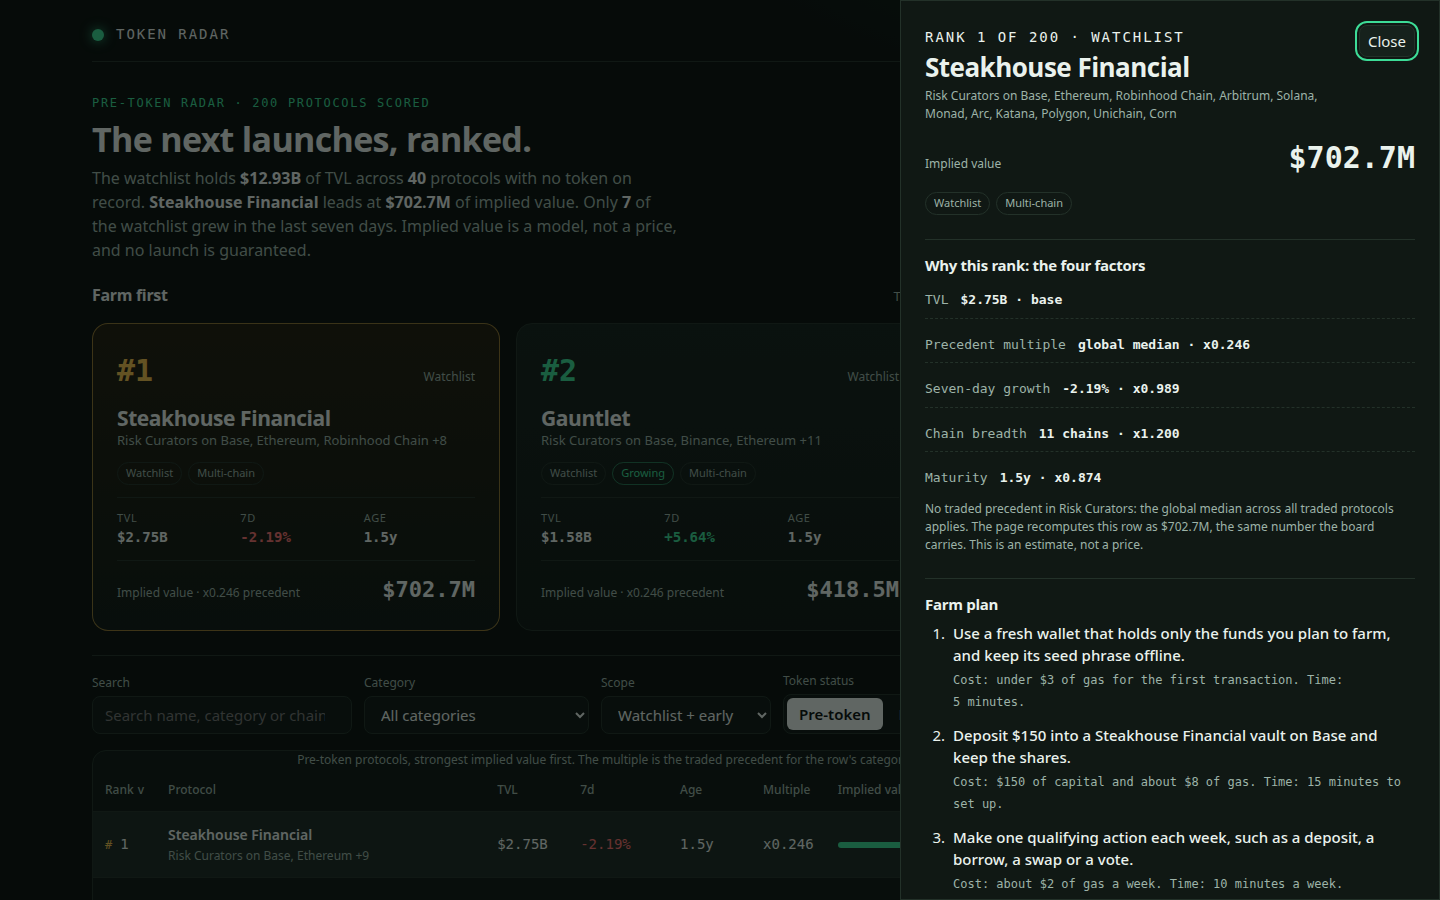
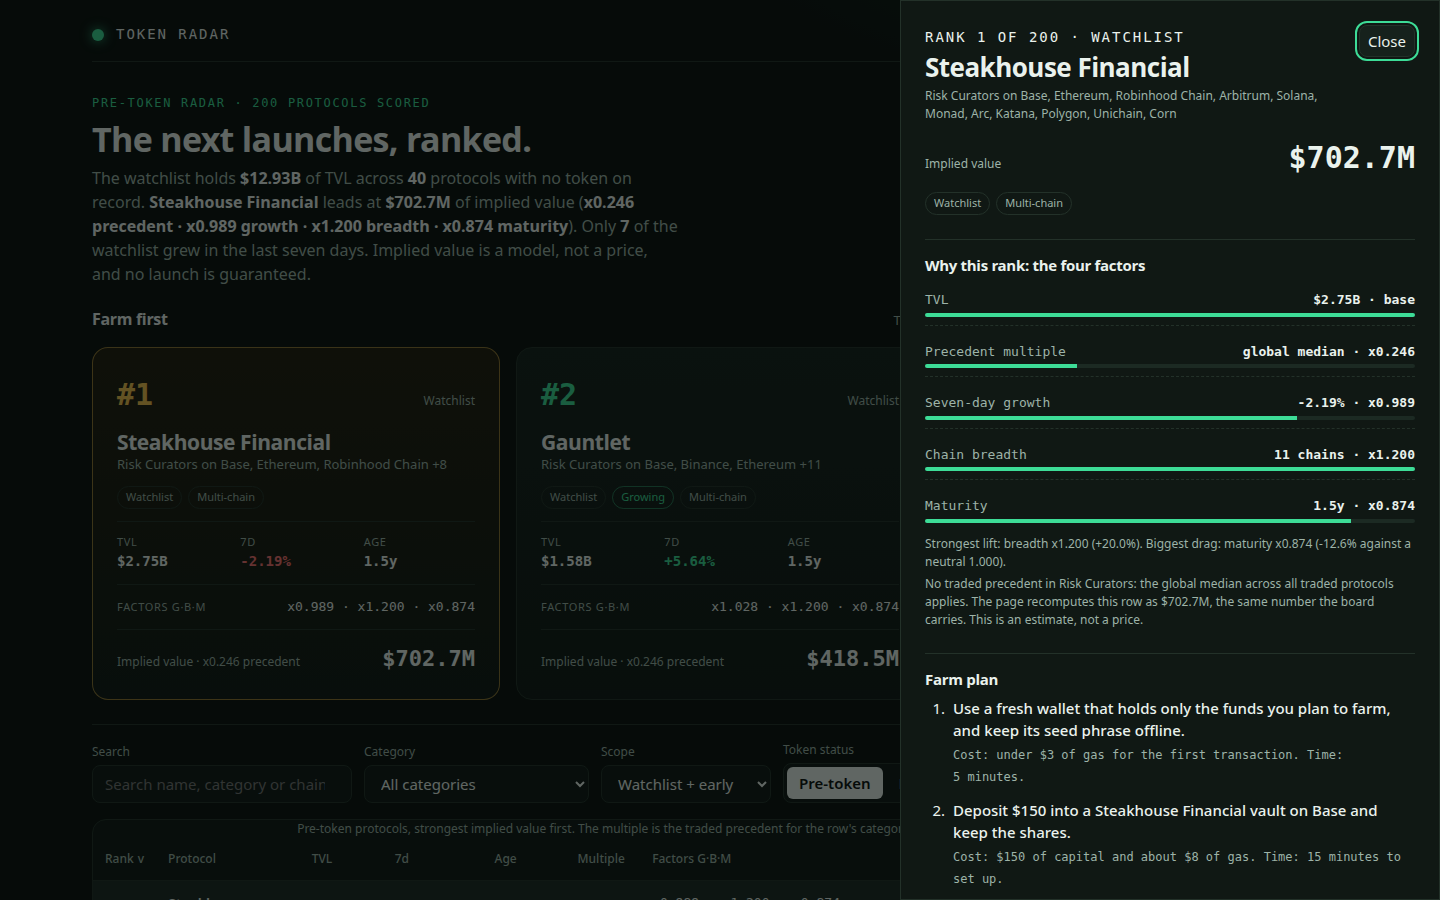
Polish 1: factor strips, factor bars, drag/lift summary

diff --git a/dashboard/app.js b/dashboard/app.js
@@ -193,6 +193,7 @@
     var watchTvl = watch.reduce(function (n, r) { return n + r.tvl_usd; }, 0);
     var top = DATA.rows[0];
     var growing = watch.filter(function (r) { return r.change_7d !== null && r.change_7d >= 2; }).length;
+    var topFactors = fmtMult(top.category_multiple) + ' precedent · ' + fmtMult(growthMultOf(top, DATA.model)) + ' growth · ' + fmtMult(breadthMultOf(top, DATA.model)) + ' breadth · ' + fmtMult(maturityMultOf(top, DATA.model)) + ' maturity';
     return el('section', { class: 'hero' },
       el('div', null,
         el('div', { class: 'eyebrow', text: 'Pre-token radar · ' + DATA.rows.length + ' protocols scored' }),
@@ -200,7 +201,7 @@
         el('p', null,
           'The watchlist holds ', el('b', { text: fmtUsd(watchTvl) }), ' of TVL across ', el('b', { text: String(watch.length) }),
           ' protocols with no token on record. ', el('b', { text: top.name }), ' leads at ', el('b', { text: fmtUsd(top.implied_value_usd) }),
-          ' of implied value. Only ', el('b', { text: String(growing) }), ' of the watchlist grew in the last seven days. Implied value is a model, not a price, and no launch is guaranteed.'
+          ' of implied value (', el('b', { text: topFactors }), '). Only ', el('b', { text: String(growing) }), ' of the watchlist grew in the last seven days. Implied value is a model, not a price, and no launch is guaranteed.'
         )
       ),
       el('div', { class: 'stats' },
@@ -233,6 +234,10 @@
           el('div', null, el('span', { text: 'TVL' }), el('b', { text: fmtUsd(r.tvl_usd) })),
           el('div', null, el('span', { text: '7d' }), el('b', { class: r.change_7d !== null && r.change_7d >= 0 ? 'pos' : 'neg', text: fmtPct(r.change_7d) })),
           el('div', null, el('span', { text: 'Age' }), el('b', { text: fmtAge(r.age_days) }))
+        ),
+        el('div', { class: 'card-factors' },
+          el('span', { text: 'Factors G·B·M' }),
+          el('span', { class: 'num', text: fmtMult(growthMultOf(r, DATA.model)) + ' · ' + fmtMult(breadthMultOf(r, DATA.model)) + ' · ' + fmtMult(maturityMultOf(r, DATA.model)) })
         ),
         el('div', { class: 'card-implied' },
           el('span', { text: 'Implied value · ' + fmtMult(r.category_multiple) + ' precedent' }),
@@ -317,6 +322,7 @@
         el('td', { class: 'num ' + growthClass, text: growth }),
         el('td', { class: 'num', text: fmtAge(r.age_days) }),
         el('td', { class: 'num', text: fmtMult(r.category_multiple) }),
+        el('td', { class: 'num factors', text: fmtMult(growthMultOf(r, DATA.model)) + ' · ' + fmtMult(breadthMultOf(r, DATA.model)) + ' · ' + fmtMult(maturityMultOf(r, DATA.model)) }),
         el('td', null, el('div', { class: 'implied' },
           el('div', { class: 'bar', 'aria-hidden': 'true' }, el('i', { style: 'width:' + Math.max(3, Math.round((r.implied_value_usd / max) * 100)) + '%' })),
           el('span', { class: 'num', text: fmtUsd(r.implied_value_usd) })
@@ -337,6 +343,7 @@
             sortHeader('growth', '7d'),
             sortHeader('age', 'Age'),
             sortHeader('multiple', 'Multiple'),
+            el('th', { scope: 'col', text: 'Factors G·B·M' }),
             sortHeader('implied', 'Implied value'),
             el('th', { scope: 'col', text: 'Signals' }),
             el('th', { scope: 'col', text: 'Token' })
@@ -421,8 +428,8 @@
   dialog.addEventListener('close', function () { state.selected = null; writeHash(); });
 
   function factorRow(label, input, right, pct) {
-    return el('div', null,
-      el('div', { style: 'display:flex;justify-content:space-between;gap:12px;' },
+    return el('div', { class: 'frow' },
+      el('div', { class: 'frow-top' },
         el('span', { text: label }),
         el('b', { text: input + '  ·  ' + right })
       ),
@@ -441,6 +448,16 @@
     var precNote = row.precedent_n > 0
       ? row.precedent_n + ' traded protocols in ' + (row.category || 'this category') + ' carry this multiple.'
       : 'No traded precedent in ' + (row.category || 'this category') + ': the global median across all traded protocols applies.';
+    var lifts = [
+      { name: 'growth', mult: growthMultOf(row, DATA.model) },
+      { name: 'breadth', mult: breadthMultOf(row, DATA.model) },
+      { name: 'maturity', mult: maturityMultOf(row, DATA.model) }
+    ];
+    var strongest = lifts[0];
+    var weakest = lifts[0];
+    lifts.forEach(function (f) { if (f.mult > strongest.mult) strongest = f; if (f.mult < weakest.mult) weakest = f; });
+    function signedLift(mult) { var p = (mult - 1) * 100; return (p >= 0 ? '+' : '') + p.toFixed(1) + '%'; }
+    var dragText = 'Strongest lift: ' + strongest.name + ' ' + fmtMult(strongest.mult) + ' (' + signedLift(strongest.mult) + '). Biggest drag: ' + weakest.name + ' ' + fmtMult(weakest.mult) + ' (' + signedLift(weakest.mult) + ' against a neutral 1.000).';
     dialog.appendChild(el('div', { class: 'detail-head' },
       el('div', null,
         el('span', { class: 'brand-name', text: 'Rank ' + row.rank + ' of ' + DATA.board_size + (row.on_watchlist ? ' · Watchlist' : ' · Early radar') }),
@@ -463,6 +480,7 @@
         factorRow('Chain breadth', (row.chains || []).length + ' chains', 'x' + breadthMultOf(row, DATA.model).toFixed(3), (breadthMultOf(row, DATA.model) / 1.2) * 100),
         factorRow('Maturity', fmtAge(row.age_days), 'x' + maturityMultOf(row, DATA.model).toFixed(3), maturityMultOf(row, DATA.model) * 100)
       ),
+      el('p', { class: 'sub', text: dragText }),
       el('p', { class: 'sub', text: precNote + ' The page recomputes this row as ' + fmtUsd(recomputed) + (recomputed === row.implied_value_usd ? ', the same number the board carries.' : ', which differs from the board: the data would be stale.') + ' This is an estimate, not a price.' })
     ));
     dialog.appendChild(el('section', { class: 'detail-section' },

diff --git a/dashboard/app.css b/dashboard/app.css
@@ -187,6 +187,12 @@ tbody tr[data-selected="true"] { background: var(--surface-3); }
 .equation { display: grid; gap: var(--step-2); font-family: var(--font-num); font-size: 13px; }
 .equation > div { display: flex; justify-content: space-between; gap: var(--step-3); padding: var(--step-2) 0; border-bottom: 1px dashed var(--border); }
 .equation > div:last-child { border-bottom: 0; }
+.equation > div.frow { display: block; }
+.frow-top { display: flex; justify-content: space-between; gap: var(--step-3); }
+.card-factors { display: flex; align-items: baseline; justify-content: space-between; gap: var(--step-3); border-top: 1px solid var(--border); padding-top: var(--step-3); }
+.card-factors span { color: var(--muted); font-size: 11px; text-transform: uppercase; letter-spacing: 0.06em; }
+.card-factors .num { color: var(--ink); font-size: 13px; text-transform: none; letter-spacing: 0; }
+td.factors { font-size: 13px; }
 .equation span { color: var(--muted); }
 .equation .fbar { display: block; height: 4px; border-radius: 2px; background: var(--surface-3); margin-top: 3px; overflow: hidden; }
 .equation .fbar i { display: block; height: 100%; background: var(--accent); }
